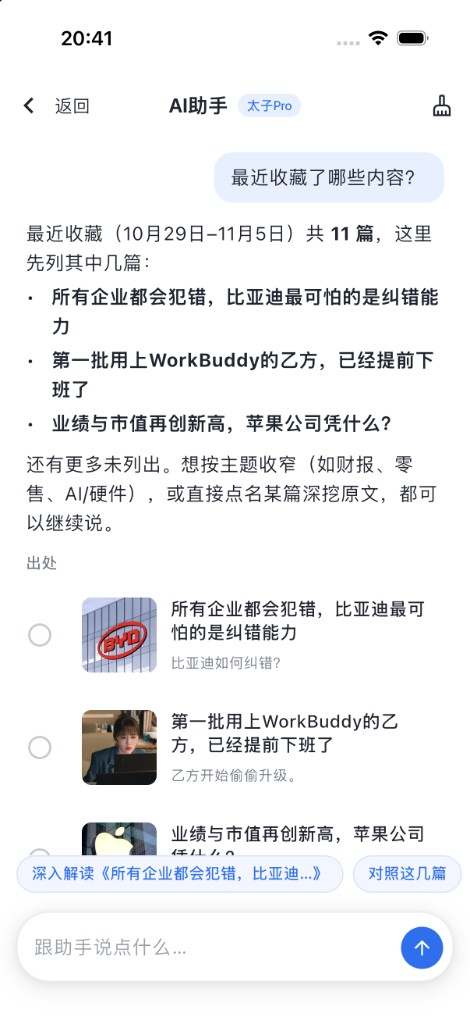
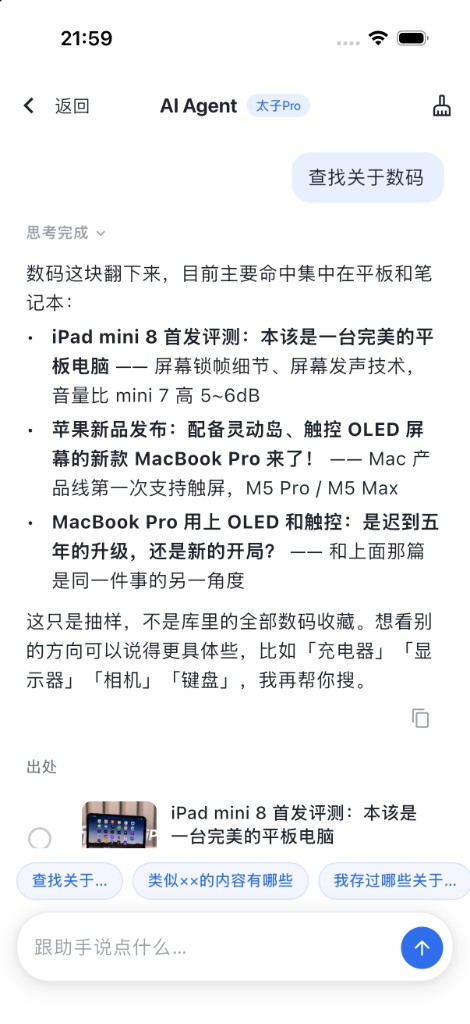
feat: agent优化

diff --git a/app/lib/features/settings/upgrade_pro_page.dart b/app/lib/features/settings/upgrade_pro_page.dart
@@ -9,6 +9,7 @@ import 'package:super_collection/core/analytics/screen_dwell_tracker.dart';
 import 'package:super_collection/core/network/api_client.dart';
 import 'package:super_collection/core/ui/app_orientation.dart';
 import 'package:super_collection/core/ui/app_toast.dart';
+import 'package:super_collection/features/settings/ai_agent_help_page.dart';
 import 'package:super_collection/features/settings/apple_iap_service.dart';
 import 'package:super_collection/features/settings/legal_docs.dart';
 import 'package:super_collection/features/settings/simple_doc_page.dart';
@@ -770,7 +771,7 @@ class _UpgradeProPageState extends State<UpgradeProPage> with ScreenDwellMixin {
                   UsagePlan.basic,
                   selected: _selectedTier == UsagePlan.basic,
                 ),
-                features: _basicFeatures(),
+                features: _basicFeatures(onAgentHelp: _openAgentHelp),
                 selected: _selectedTier == UsagePlan.basic,
                 onTap: () => _selectTier(UsagePlan.basic),
               ),
@@ -783,7 +784,10 @@ class _UpgradeProPageState extends State<UpgradeProPage> with ScreenDwellMixin {
                   UsagePlan.prince,
                   selected: _selectedTier == UsagePlan.prince,
                 ),
-                features: _princeFeatures(_quotas),
+                features: _princeFeatures(
+                  _quotas,
+                  onAgentHelp: _openAgentHelp,
+                ),
                 selected: _selectedTier == UsagePlan.prince,
                 onTap: () => _selectTier(UsagePlan.prince),
               ),
@@ -971,7 +975,7 @@ class _UpgradeProPageState extends State<UpgradeProPage> with ScreenDwellMixin {
                             UsagePlan.basic,
                             selected: _selectedTier == UsagePlan.basic,
                           ),
-                          features: _basicFeatures(),
+                          features: _basicFeatures(onAgentHelp: _openAgentHelp),
                           ctaLabel: _subscribeLabelForTier(UsagePlan.basic),
                           ctaEnabled: _ctaEnabledForTier(UsagePlan.basic),
                           ctaBusy: _busy &&
@@ -994,7 +998,10 @@ class _UpgradeProPageState extends State<UpgradeProPage> with ScreenDwellMixin {
                             UsagePlan.prince,
                             selected: _selectedTier == UsagePlan.prince,
                           ),
-                          features: _princeFeatures(_quotas),
+                          features: _princeFeatures(
+                            _quotas,
+                            onAgentHelp: _openAgentHelp,
+                          ),
                           ctaLabel: _subscribeLabelForTier(UsagePlan.prince),
                           ctaEnabled: _ctaEnabledForTier(UsagePlan.prince),
                           ctaBusy: _busy &&
@@ -1061,25 +1068,36 @@ class _UpgradeProPageState extends State<UpgradeProPage> with ScreenDwellMixin {
     '整理成文章',
   ];
 
-  List<_PlanFeature> _basicFeatures() {
-    return const [
-      _PlanFeature('一次买断，永久收藏不限条数', included: true),
-      _PlanFeature('永久解析', included: true),
+  void _openAgentHelp() {
+    openSettingsPage<void>(context, const AiAgentHelpPage());
+  }
+
+  List<_PlanFeature> _basicFeatures({VoidCallback? onAgentHelp}) {
+    return [
+      const _PlanFeature('一次买断，永久收藏不限条数', included: true),
+      const _PlanFeature('永久解析', included: true),
       _PlanFeature(
         'AI Agent',
         included: false,
         children: _agentCapabilities,
+        childrenNote: '之后还会陆续增加更多能力',
+        onTap: onAgentHelp,
       ),
     ];
   }
 
-  List<_PlanFeature> _princeFeatures(PlanQuotasTable quotas) {
+  List<_PlanFeature> _princeFeatures(
+    PlanQuotasTable quotas, {
+    VoidCallback? onAgentHelp,
+  }) {
     return [
       const _PlanFeature('订阅期内收藏不限条数', included: true),
-      const _PlanFeature(
+      _PlanFeature(
         'AI Agent',
         included: true,
         children: _agentCapabilities,
+        childrenNote: '之后还会陆续增加更多能力',
+        onTap: onAgentHelp,
       ),
       _PlanFeature(
         'AI Agent 额度 ${formatAiCredits(quotas.prince.aiTokens)} 积分 / 月',
@@ -1892,12 +1910,17 @@ class _PlanFeature {
     required this.included,
     this.isQuota = false,
     this.children = const [],
+    this.childrenNote,
+    this.onTap,
   });
 
   final String label;
   final bool included;
   final bool isQuota;
   final List<String> children;
+  /// 二级能力列表下方说明（非能力项）
+  final String? childrenNote;
+  final VoidCallback? onTap;
 }
 
 /// 年付价签：删除线原价 + 醒目「立省」胶囊
@@ -2118,6 +2141,33 @@ class _FeatureLine extends StatelessWidget {
     final childColor = included
         ? _UpgradeProPageState._muted
         : _UpgradeProPageState._muted.withValues(alpha: 0.5);
+    final labelStyle = TextStyle(
+      fontSize: feature.isQuota ? 13 : 14,
+      fontWeight: feature.isQuota ? FontWeight.w500 : FontWeight.w400,
+      color: color,
+      height: 1.35,
+      decoration: feature.onTap != null ? TextDecoration.underline : null,
+      decorationColor: color.withValues(alpha: 0.45),
+    );
+    final label = feature.onTap == null
+        ? Text(feature.label, style: labelStyle)
+        : GestureDetector(
+            behavior: HitTestBehavior.opaque,
+            onTap: feature.onTap,
+            child: Row(
+              mainAxisSize: MainAxisSize.min,
+              children: [
+                Flexible(child: Text(feature.label, style: labelStyle)),
+                const SizedBox(width: 2),
+                Icon(
+                  Icons.chevron_right_rounded,
+                  size: 18,
+                  color: color.withValues(alpha: 0.7),
+                ),
+              ],
+            ),
+          );
+
     return Column(
       crossAxisAlignment: CrossAxisAlignment.start,
       children: [
@@ -2126,18 +2176,7 @@ class _FeatureLine extends StatelessWidget {
           children: [
             Icon(icon, size: 18, color: color),
             const SizedBox(width: 8),
-            Expanded(
-              child: Text(
-                feature.label,
-                style: TextStyle(
-                  fontSize: feature.isQuota ? 13 : 14,
-                  fontWeight:
-                      feature.isQuota ? FontWeight.w500 : FontWeight.w400,
-                  color: color,
-                  height: 1.35,
-                ),
-              ),
-            ),
+            Expanded(child: label),
           ],
         ),
         if (feature.children.isNotEmpty) ...[
@@ -2174,6 +2213,19 @@ class _FeatureLine extends StatelessWidget {
               ),
             ),
           ),
+          if (feature.childrenNote != null &&
+              feature.childrenNote!.trim().isNotEmpty)
+            Padding(
+              padding: const EdgeInsets.only(left: 26, top: 2),
+              child: Text(
+                feature.childrenNote!,
+                style: TextStyle(
+                  fontSize: 12,
+                  color: childColor.withValues(alpha: included ? 0.85 : 0.75),
+                  height: 1.35,
+                ),
+              ),
+            ),
         ],
       ],
     );

diff --git a/backend/src/services/agent/lc/tools/searchLibrary.js b/backend/src/services/agent/lc/tools/searchLibrary.js
@@ -80,12 +80,12 @@ function createSearchLibraryTool(runtime) {
       description:
         '按主题/意图检索收藏。用户问「关于×× / 找类似 / 存过某主题」时调用。' +
         '不要用于「最近收藏了哪些 / 今天存了什么 / 有多少收藏」——那些请用 list_library。' +
-        'q 用短主题词；大类意图务必具象改写后再搜（数码→笔记本/平板，可分两次调用再汇总）。不要照抄整句闲聊或只搜笼统原词。',
+        'q 用短主题词。大类/笼统意图：改成互补具象方向再搜（可 2～3 次、每次不同分支）；是抽样不是盘点，不要对未搜方向说「没搜到」。不要照抄整句闲聊或只搜笼统原词。',
       schema: z.object({
         q: z
           .string()
           .describe(
-            '短主题词；大类词请改成具象说法（如笔记本、平板），不要只用「数码」这类笼统词',
+            '短主题词；大类请用具象分支说法，多次调用时换不同分支，不要重复同一形态',
           ),
         limit: z
           .number()

diff --git a/backend/src/services/agent/agentPolicy.js b/backend/src/services/agent/agentPolicy.js
@@ -1,7 +1,9 @@
 /** Agent 策略：步数、citations、写库确认（P1 只读） */
 
 const MAX_STEPS_P1 = 4;
-const MAX_SEARCH_QUERIES = 2;
+/** 大类意图可分多轮具象抽样；与 prompt「可 2～3 次」对齐（编排层提示用） */
+const MAX_SEARCH_QUERIES = 3;
+
 /** 单次搜库默认返回条数（给模型写答用） */
 const MAX_SEARCH_HITS = 6;
 /** 单次搜库硬顶；落库出处池与此对齐，App 可「加载更多」展开 */

diff --git a/app/lib/core/config/api_config.dart b/app/lib/core/config/api_config.dart
@@ -4,8 +4,8 @@
 class ApiConfig {
   static const String baseUrl = String.fromEnvironment(
     'API_BASE_URL',
-    defaultValue: 'https://conflux.wobufang.com'
-    // defaultValue: 'http://127.0.0.1:3001',
+    // defaultValue: 'https://conflux.wobufang.com'
+    defaultValue: 'http://127.0.0.1:3001',
     // defaultValue:'http://192.168.10.4:3001'
     // defaultValue:'http://47.97.67.47:3002'
     // defaultValue:'http://47.99.139.248:3001'

diff --git a/docs/技术实现.md b/docs/技术实现.md
@@ -799,6 +799,10 @@ flutter run --dart-define=API_BASE_URL=http://127.0.0.1:3001
 
 | 日期 | 范围 | 摘要 |
 | --- | --- | --- |
+| 2026-11-14 | backend / docs | **大类意图检索改抽样策略**：prompt 要求互补分支 2～3 次搜；禁止对未搜方向说「没搜到」、禁止暗示列全；不写死子类清单 |
+| 2026-11-14 | app / backend / docs | **AI Agent 介绍图更新**：帮助页 `help/ai-agent-chat.png` 与官网 `/assets/agent.png` 换成现网对话截图（含 iPad 命中与抽样口径） |
+| 2026-11-14 | app / docs | **升级页 AI Agent 二级列表加说明**：「之后还会陆续增加更多能力」 |
+| 2026-11-14 | app / docs | **升级页 AI Agent 可点进帮助**：权益行跳转 `AiAgentHelpPage`；不拦截档位选中 |
 | 2026-11-14 | app / docs | **版本号**：1.7.8（build 39）；设置页与埋点 `_appVersion` 同步；App Store What's New 相对 1.7.7 |
 | 2026-11-14 | backend / docs | **助手恢复 list_library 盘点**：最近/今天/本周收藏、有多少、最近阅读/批注走时间窗或系统筛选；禁止用 search_library 硬搜「近期收藏」 |
 | 2026-11-14 | app / docs | **升级页 AI Agent 二级能力**：转写并入 Agent；下列意图搜索/深挖原文/生成文稿/整理成文章；额度与转写分钟仍单独计量行 |
